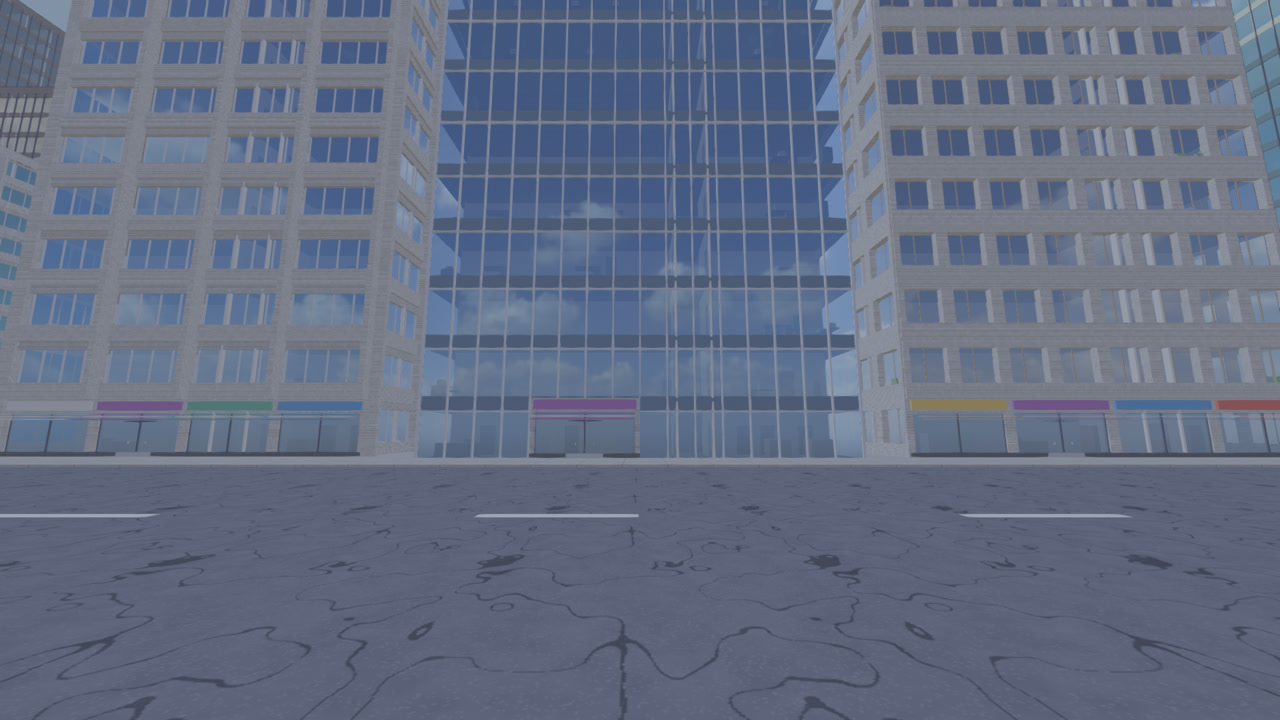
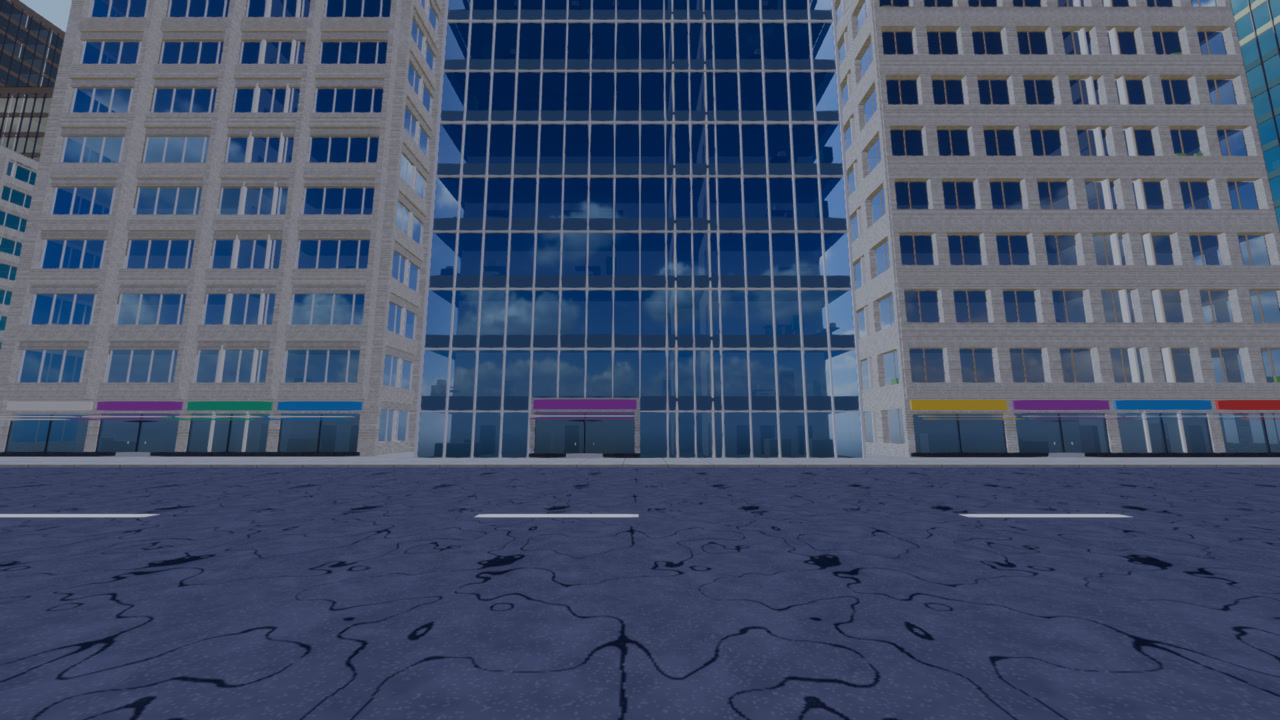
Stills after the merge: the colour grade and darker windows
Lavapipe tour stills from the merged build with the grade (saturation 1.15,
contrast 1.08), the darker mirror glass and the warm ambient fill, a
before/after sheet, and the rejected warm white balance. Report updated.

Claude-Session: https://claude.ai/code/session_01GAUSrjaCKmwuFkzED4s8TT

diff --git a/docs/playtests/2026-10-24-buildings-cloud.md b/docs/playtests/2026-10-24-buildings-cloud.md
@@ -160,3 +160,23 @@ down: the facing side's bays peeled off, as structural destruction designs; the 
 3. A shot from above to check roofs, parapets and props.
 4. Fire escapes and cornices on walk-ups, and warehouses near the start, both missing here.
 5. Textures on falling debris.
+
+## After merging main: colour grade and darker windows
+
+Main brought Bevy's scattering sky, ACES tonemapping, grass and bloom (lavapipe frames now about
+5.5 s). The sky light's brightness now follows main's exposure step, through one function
+(`world::exposure_scale`). Then the owner: "Some colour balance maybe? Darker the my for windows?
+Make scene a little more vibrant?"
+
+- `grade-before-after.jpg`: merged main on the left, the grade and darker glass on the right
+  (walk-up street above, office street below). Saturation 1.15 and contrast 1.08 from
+  `data/world/world.ron`; the windows are a darker blue-grey coating (about 30 % head-on, 8 % of
+  the room through); the flat ambient is a neutral warm white instead of sky blue. The brick is
+  richer and the glass a deep, dark blue mirror.
+- `grade-rejected-warm-0.06.jpg`: white balance 0.06 warmer turned the whole street pink and the
+  glass purple; it is back to neutral.
+- Still cool: the road in the buildings' shade reads slate blue, lit mostly by the blue sky
+  light. Warming the sky cube's fill (or less sky light in the shade) is the next step if wanted.
+- The tour stills `tour-0` to `tour-2` are from this build; `tour-3` and the demolition are from
+  before the merge.
+
